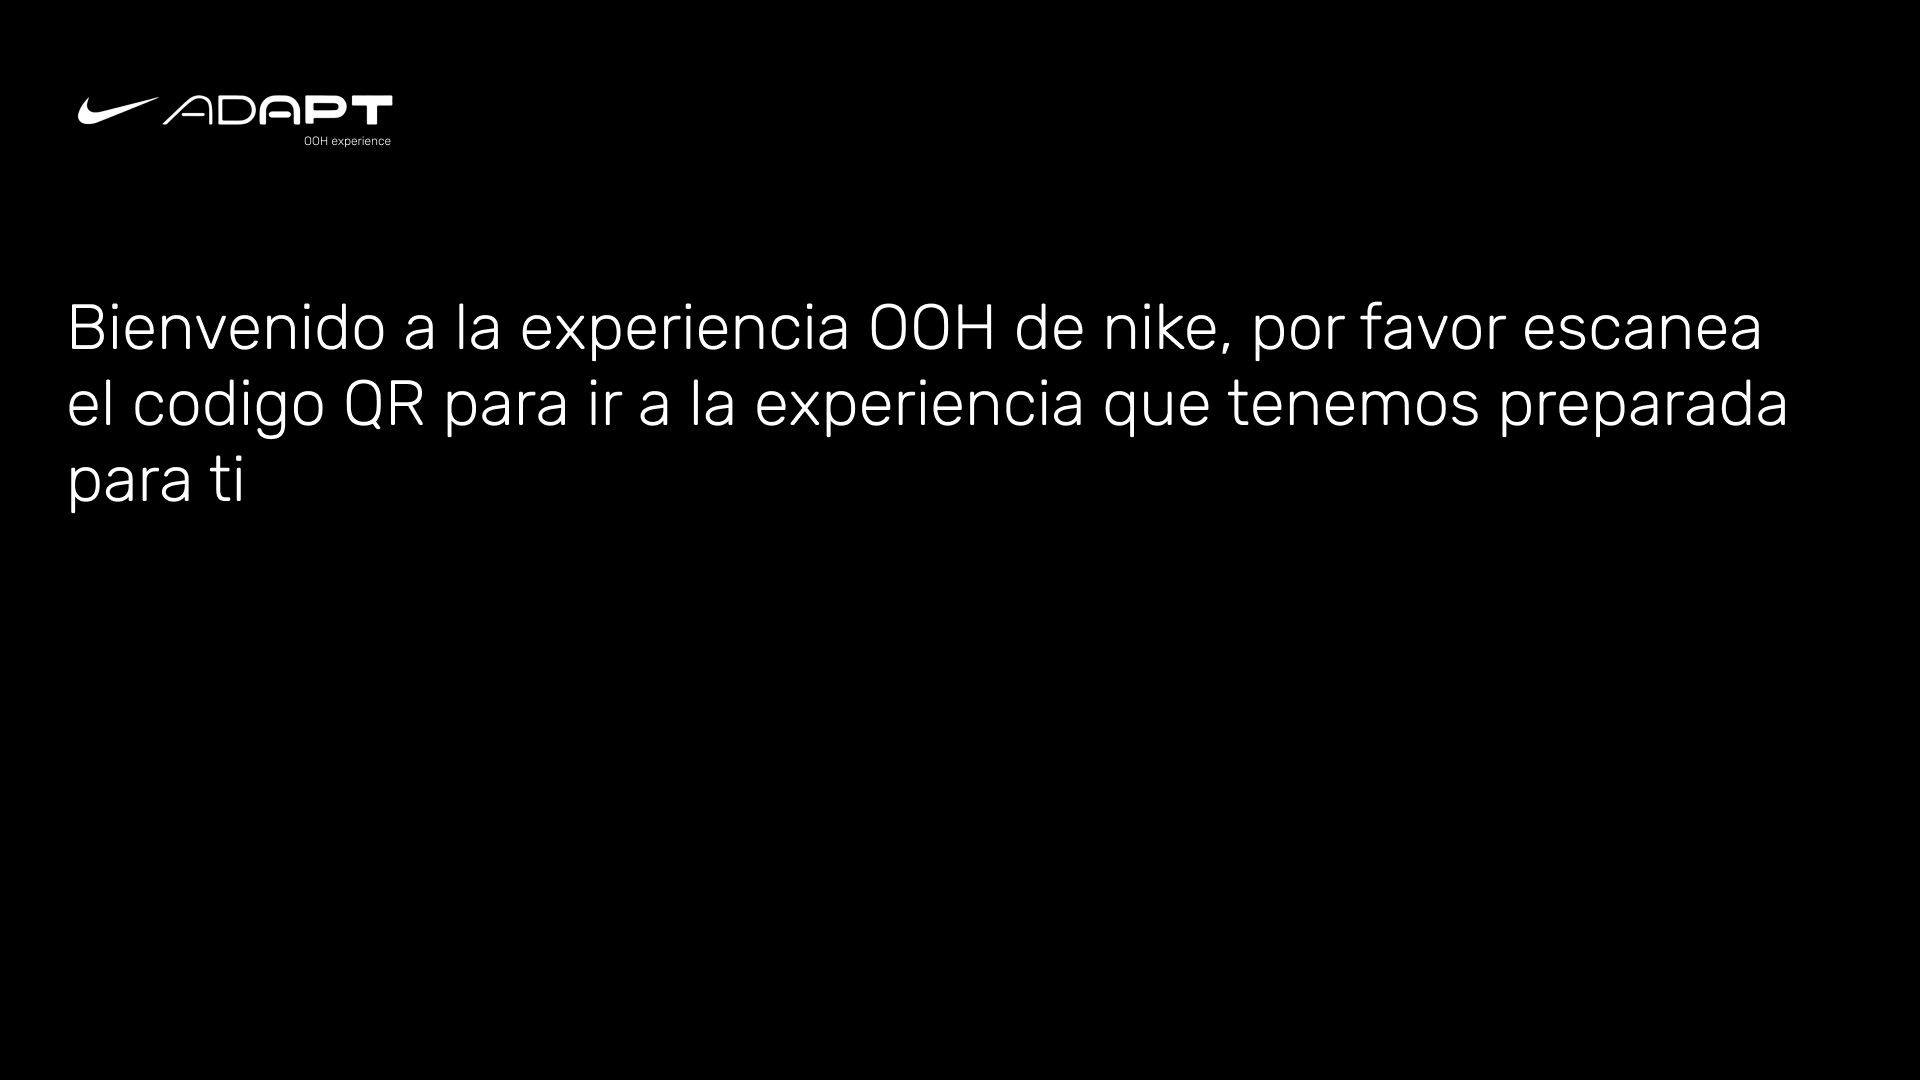
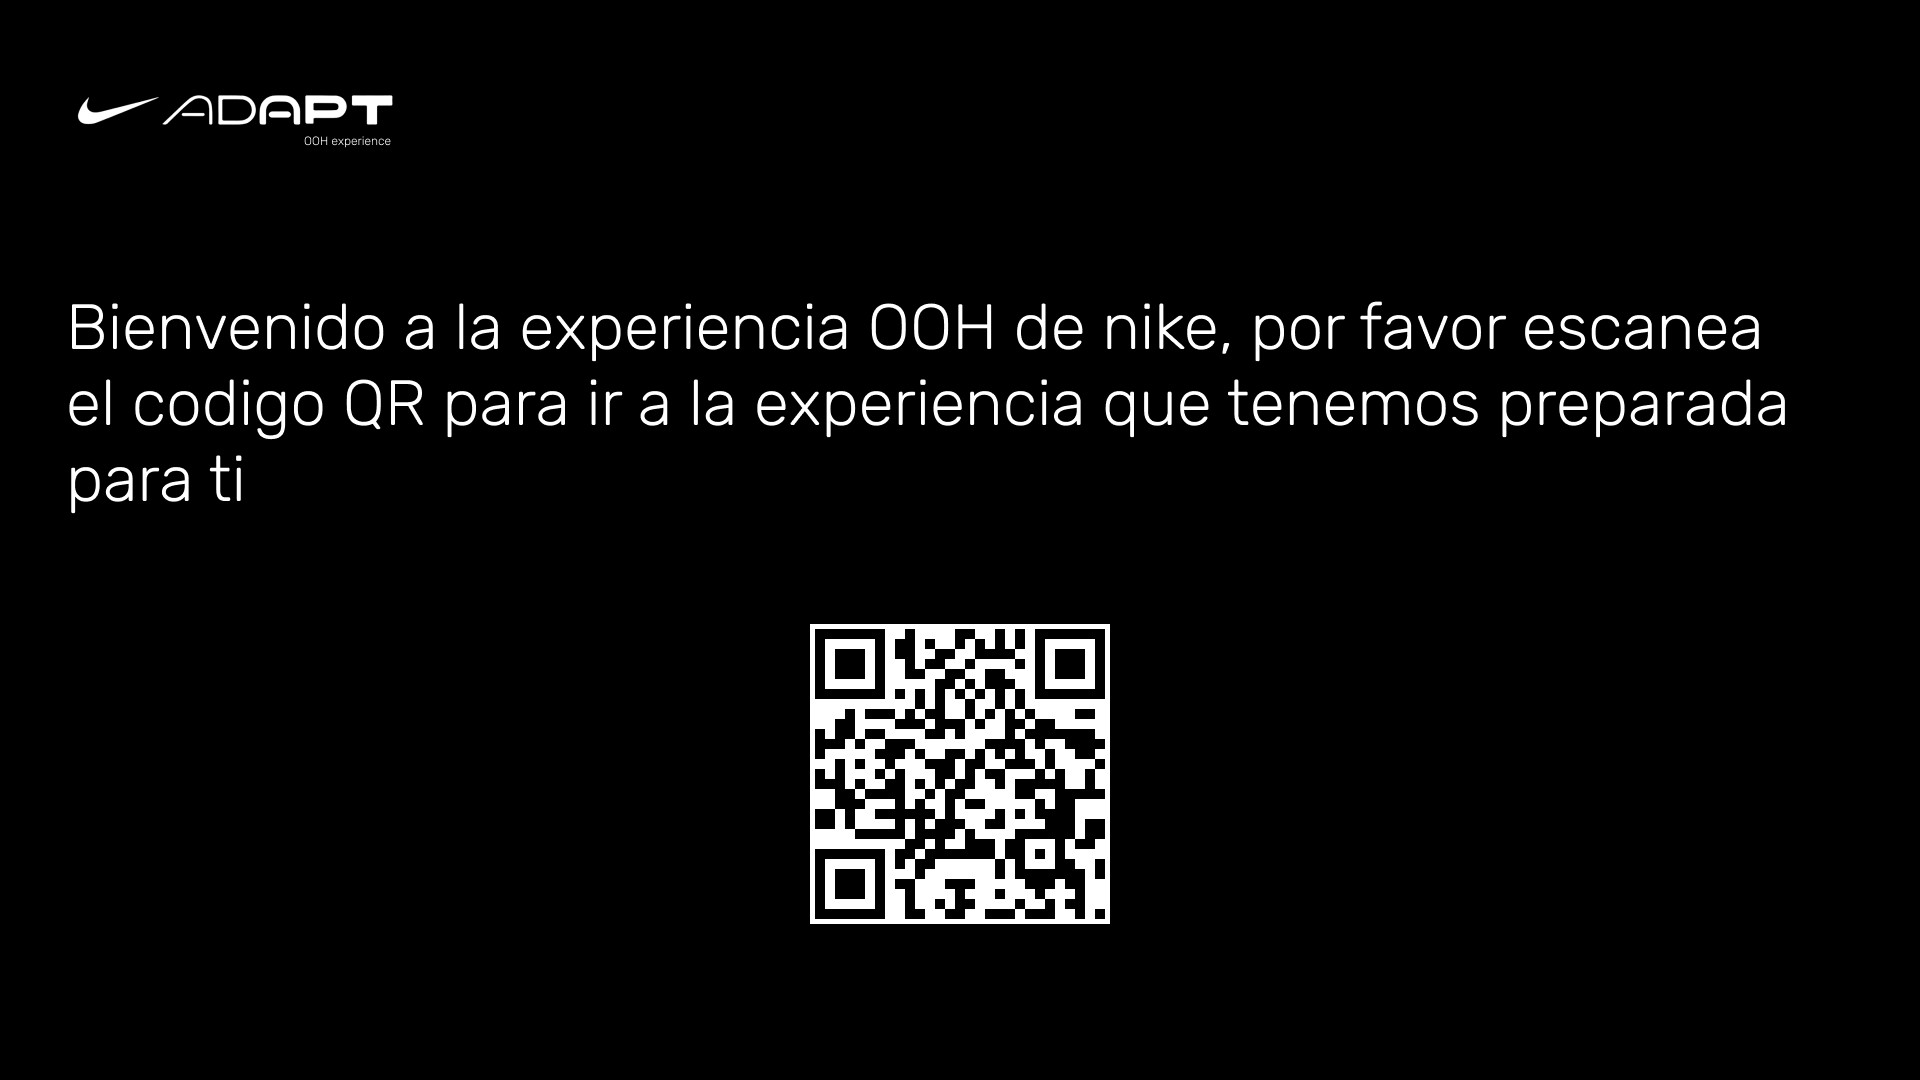
Carga imagen con codigo QR

Changed region(s): [[0.4062, 0.5806, 0.5938, 0.8556]]

diff --git a/MVP_FINAL/public-display/sketch.js b/MVP_FINAL/public-display/sketch.js
@@ -19,12 +19,12 @@ let imagenDisplayPantalla5
 
 //Función para llamada de imagenes en el codigo
 function preload() {
-    imagenDisplayPantalla1 = new Image('data/pantalla 1 (publicidad del juego).png');
-    imagenDisplayPantalla2 = new Image('data/pantalla 2 (instrucciones de lo que debe hacer el jugador en su celular).png');
-    imagenDisplayPantalla3 = new Image('data/pantalla 3 (contador de juego para que se prepare para jugar).png');
-    imagenDisplayPantalla4 = new Image('data/pantalla 4 (espacio donde se va a ver el juego) aqui sucede la magia.png');
-    imagenDisplayPantalla5 = new Image('data/pantalla 5 (pantalla que indica que el juego terminó).png');
- 
+    imagenDisplayPantalla1 = new loadImage('data/pantalla 1 (publicidad del juego).png');
+    imagenDisplayPantalla2 = new loadImage('data/pantalla 2 (instrucciones de lo que debe hacer el jugador en su celular).png');
+    imagenDisplayPantalla3 = new loadImage('data/pantalla 3 (contador de juego para que se prepare para jugar).png');
+    imagenDisplayPantalla4 = new loadImage('data/pantalla 4 (espacio donde se va a ver el juego) aqui sucede la magia.png');
+    imagenDisplayPantalla5 = new loadImage('data/pantalla 5 (pantalla que indica que el juego terminó).png');
+}
 
 function setup() { 
     pantalla = 0
@@ -35,14 +35,42 @@ function setup() {
 
 function draw() {
     switch(pantalla){
+        //En esta pantalla va a estar la publicidad junto con el codigo QR
         case 0:
+            
+            image(imagenDisplayPantalla1, 0, 0);
+
+            break;
+    //---------------------------------------------------
+       //En esta pantalla se van a mostrar las instrucciones del juego
+        case 1:
             background(235, 190, 155);
             fill(80, 36, 25);
             textSize(30);
-            text('Publicidad del juego', 50, 50);
+            text('instrucciones del juego', 50, 50);
             break;
+
     //---------------------------------------------------
-        case 1:
+        //En esta pantalla va a haber un contador del 3 - 1 para indicar al jugador cuando va a comenzar la experiencia
+        case 2:
+            background(235, 190, 155);
+            fill(80, 36, 25);
+            textSize(30);
+            text('instrucciones del juego', 50, 50);
+            break;
+
+    //---------------------------------------------------
+        //En esta pantalla se va a desarrollar toda la experiencia del juego
+        case 3:
+            background(235, 190, 155);
+            fill(80, 36, 25);
+            textSize(30);
+            text('instrucciones del juego', 50, 50);
+            break;
+
+    //---------------------------------------------------
+        //En esta pantalla se le indica al jugador el fin del juego y se le agradece por jugar
+        case 4:
             background(235, 190, 155);
             fill(80, 36, 25);
             textSize(30);
@@ -51,7 +79,7 @@ function draw() {
     }
     
 }
-}
+
 
 //aqui se llama el contador de cliks que realiza el usuario
 socket.on('tapinformation', (tapInformations)  => {
